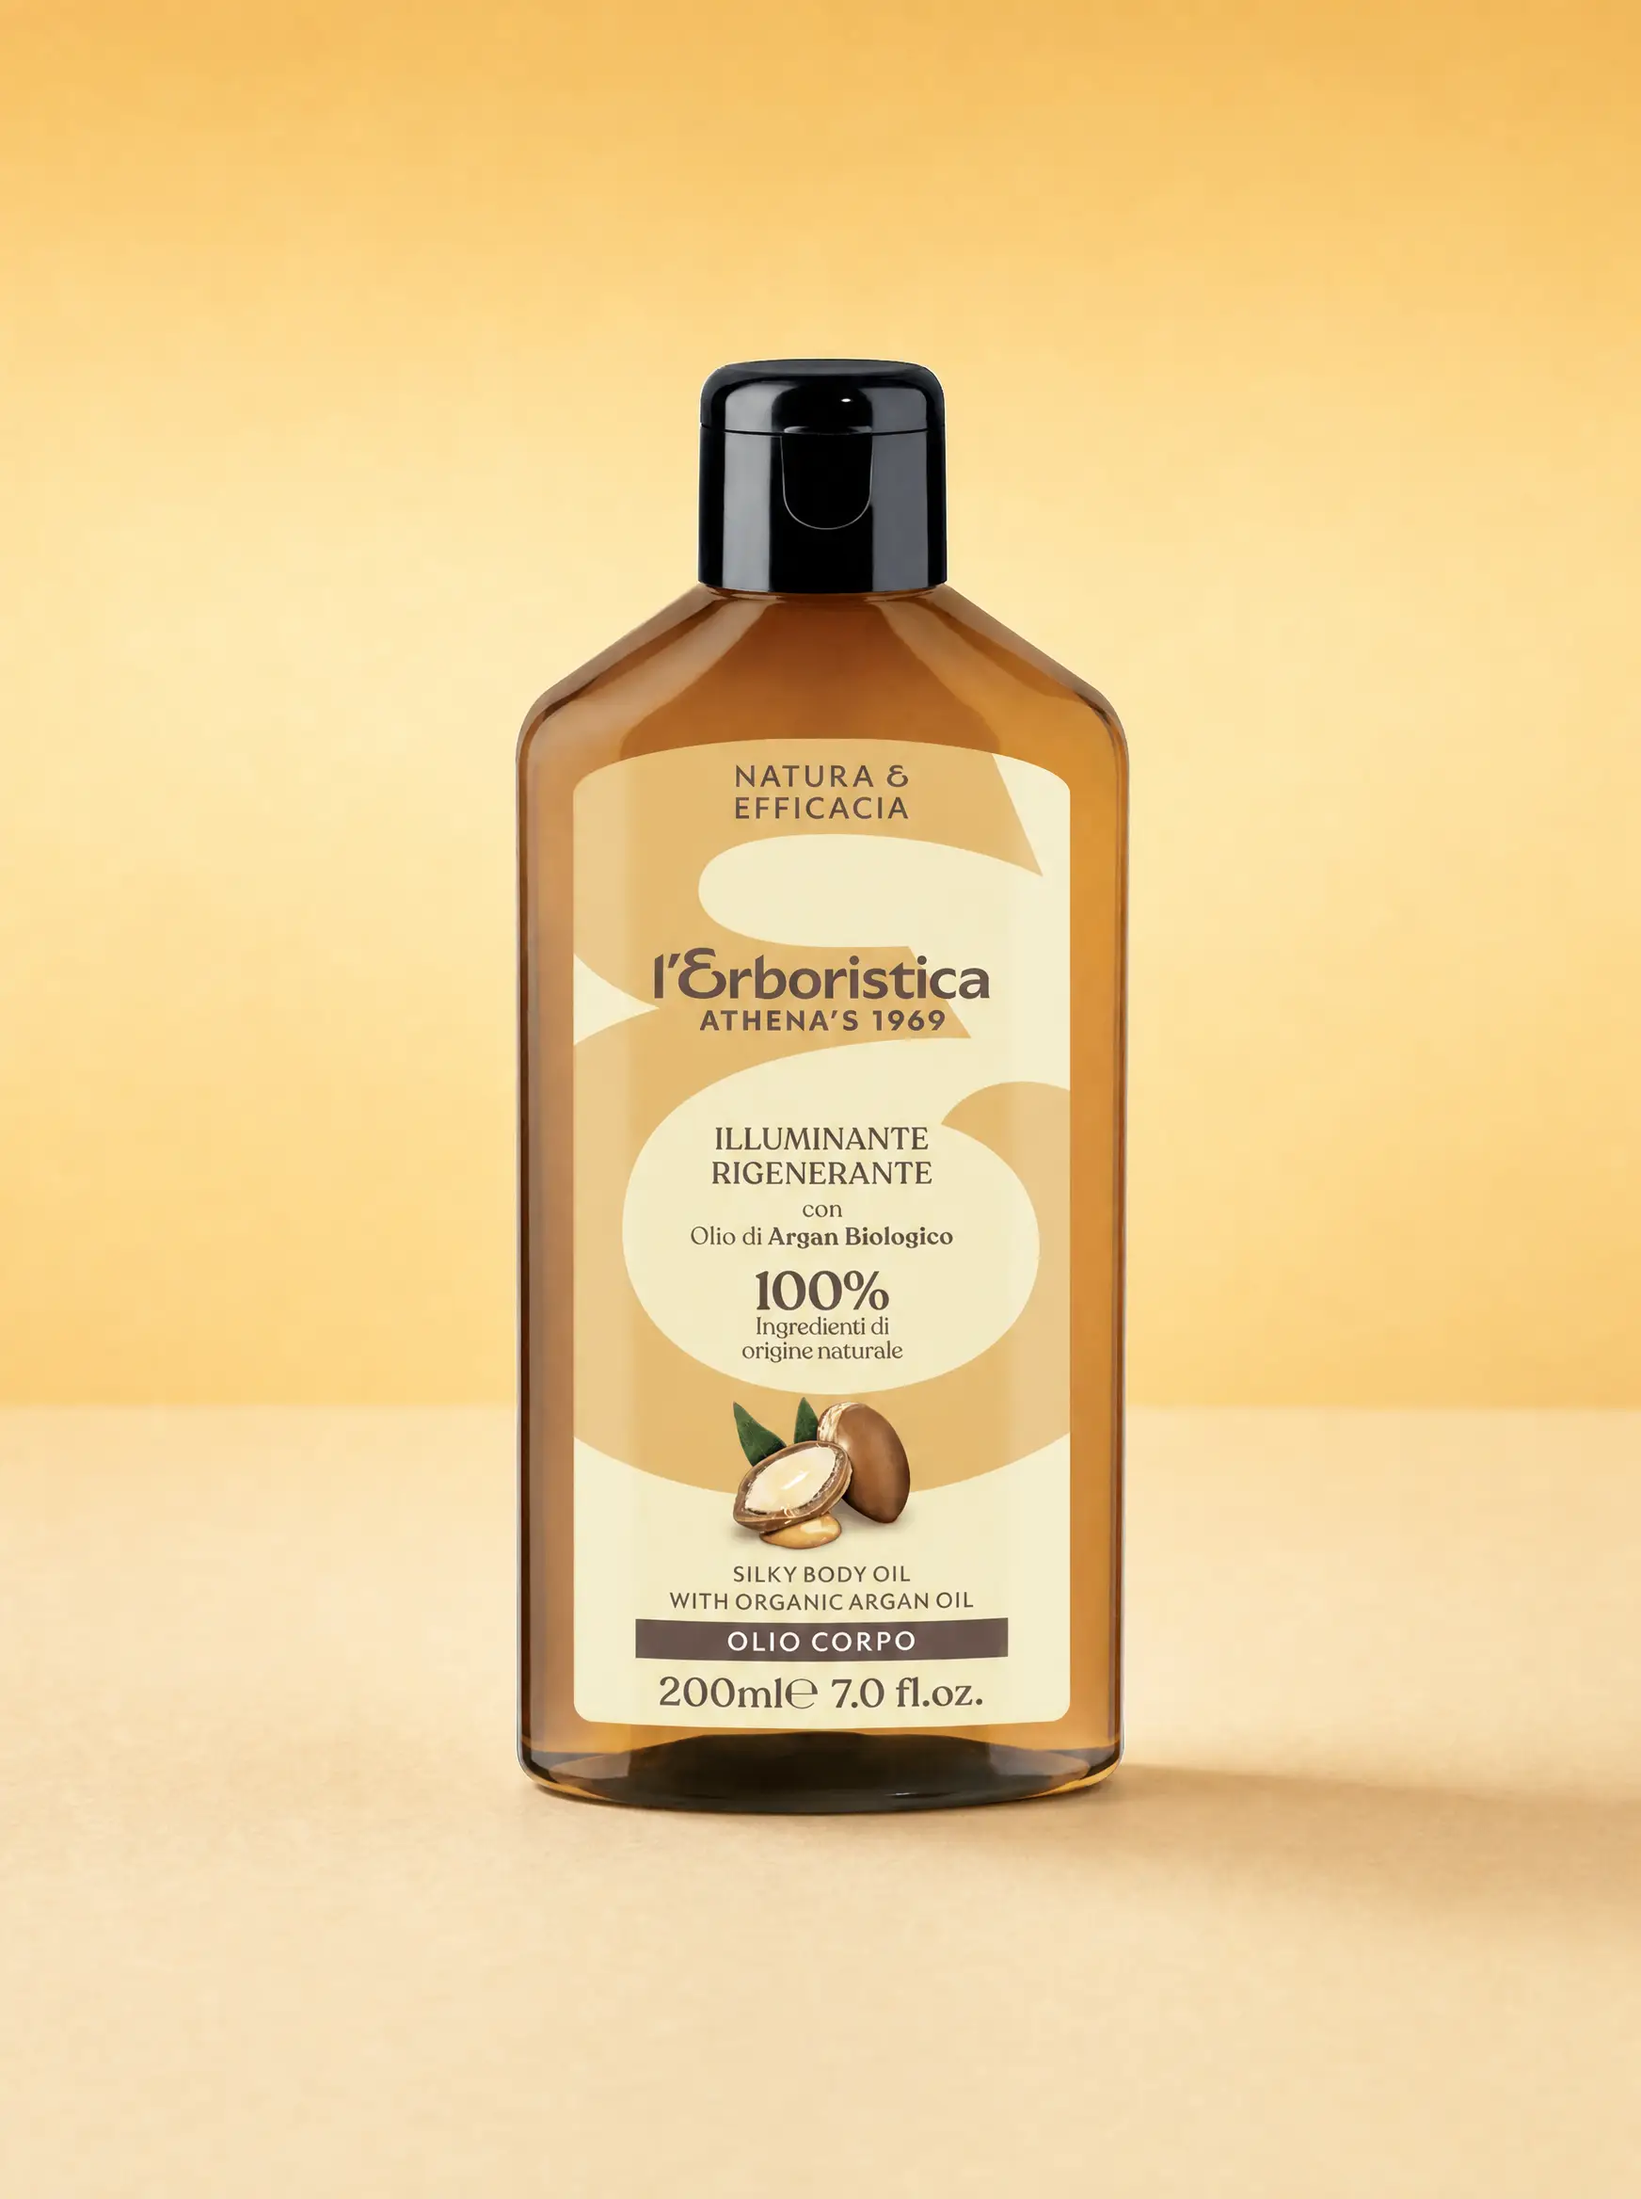
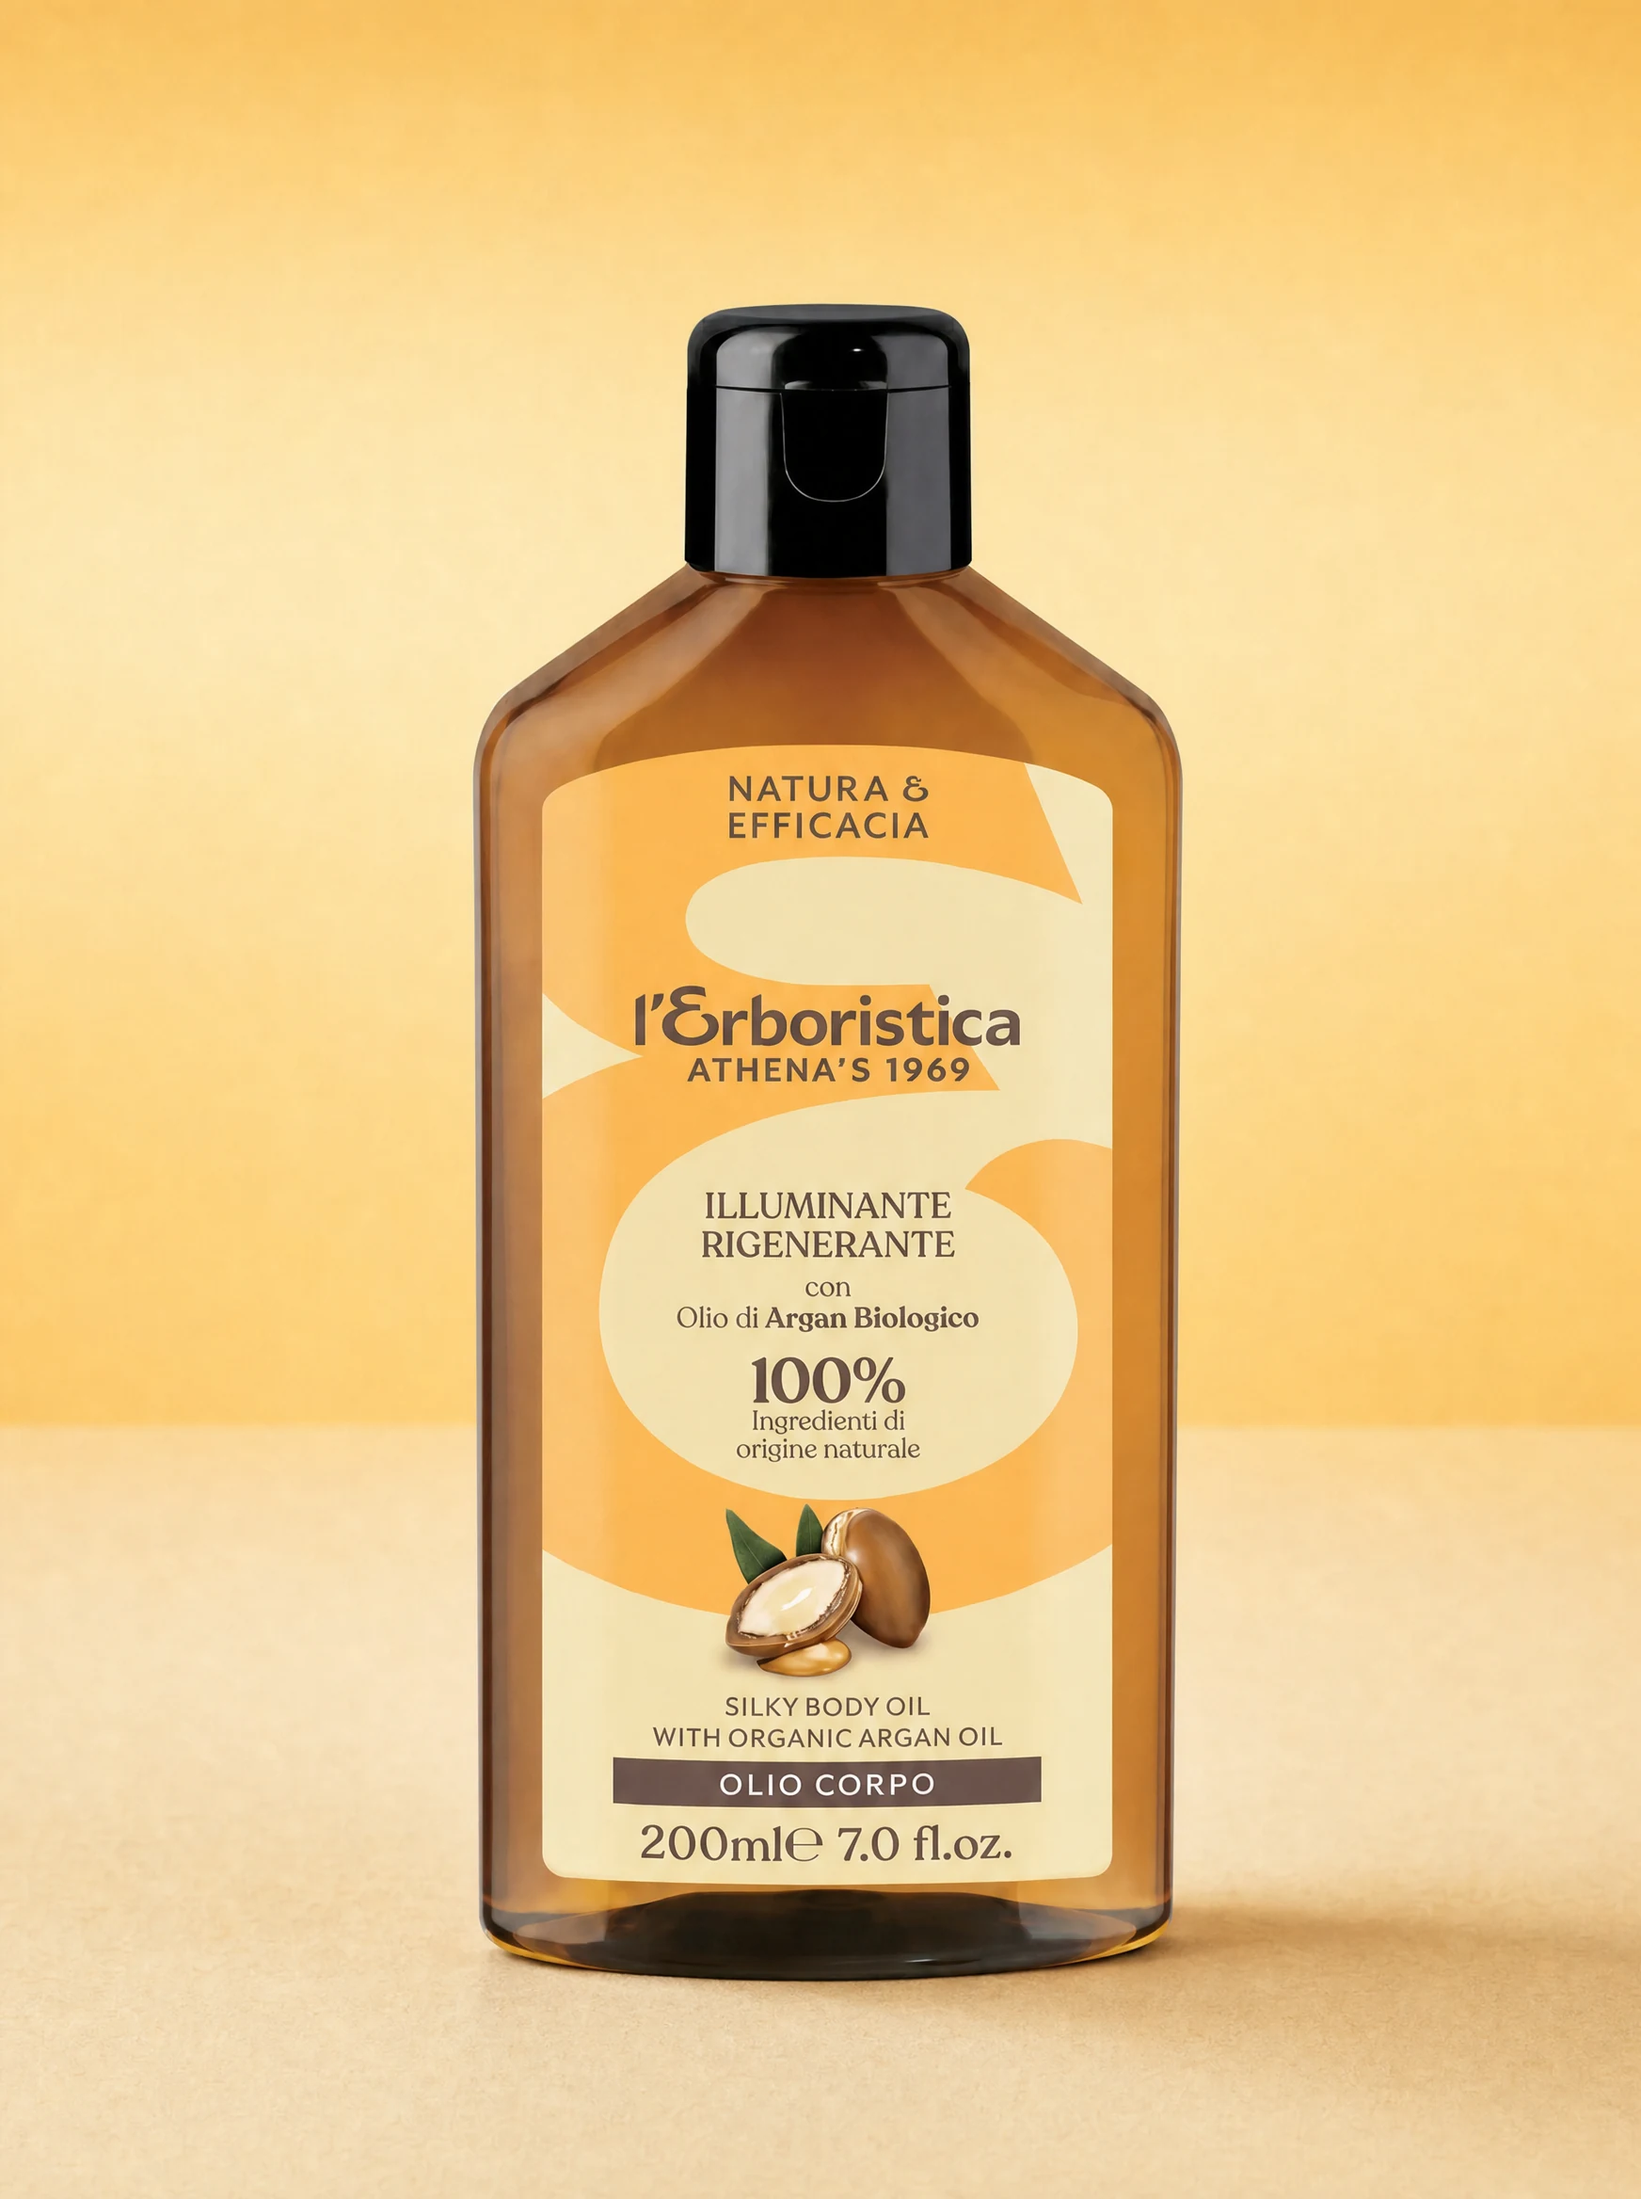
Foto olio corpo Argan + cache-bust card linee (v4)
- Argan: nuovo hero olio corpo (E colore giusto), convertito PNG->WebP.
- linea.html: bump cache-buster immagini card ?v=3 -> ?v=4 per forzare il refresh su CDN/browser. Le card Uomo (contorno occhi, crema viso) mostravano una versione vecchia "larga" rimasta in cache; i file reali sono gia 3:4 corretti e usano object-fit cover (nessuna distorsione lato codice).

Changed region(s): [[0.0, 0.125, 1.0, 0.9688]]

diff --git a/linee/linea.html b/linee/linea.html
@@ -1207,7 +1207,7 @@ body.theme-line-antieta {
         article.innerHTML = `
           <div class="mini-card__visual">
             ${cardImg
-              ? `<img loading="lazy" decoding="async" src="${cardImg}?v=3" alt="${locData.name}" style="position:absolute;inset:0;width:100%;height:100%;object-fit:cover;object-position:center;">`
+              ? `<img loading="lazy" decoding="async" src="${cardImg}?v=4" alt="${locData.name}" style="position:absolute;inset:0;width:100%;height:100%;object-fit:cover;object-position:center;">`
               : `<div class="pm">${productMock(line.palette, '', shape)}</div>`
             }
           </div>
